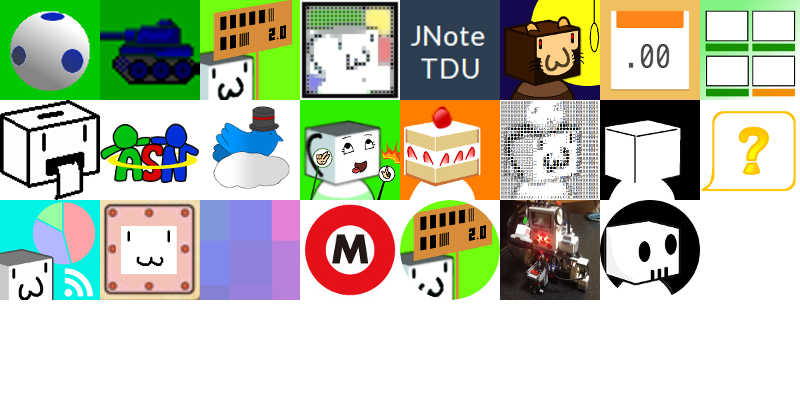
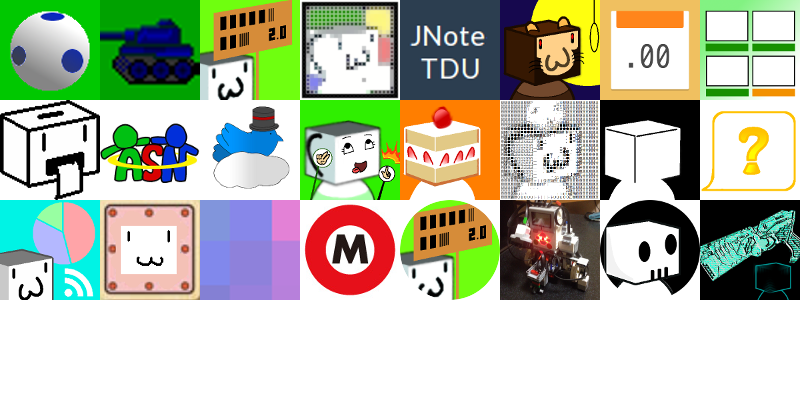
add portfolio dominator

Changed region(s): [[0.875, 0.48, 1.0, 0.75]]

diff --git a/application/views/portfoliopage.php b/application/views/portfoliopage.php
@@ -157,6 +157,12 @@ EOF
 EOF
         , array(TECHTAG_LANG_RUBY, TECHTAG_LANG_PHP, TECHTAG_LIB_MECAB, TECHTAG_API_TWITTERAPI, TECHTAG_API_GOOGLEMAPAPI, TECHTAG_OS_LINUX, TECHTAG_VC_GIT, TECHTAG_EDIT_VIM), '2014年12月', PATH_IMG_PRO_AREA, 'http://areastress.cps.im.dendai.ac.jp/'
     ),
+    new Productionobj(
+        'ドミネーター', '犯罪係数を測る', PRO_TYPE_SERIVICE, <<<EOF
+        Twitterユーザの色相と犯罪係数を計測できる.予想より人気で公開した一晩でレンタル鯖の転送量制限を越して閉鎖.
+EOF
+        , array(TECHTAG_LANG_PHP, TECHTAG_LANG_JS, TECHTAG_LIB_MECAB, TECHTAG_FW_FOUNDATION, TECHTAG_FW_CODEIGNITER, TECHTAG_MLANG_COFFEESCRIPT, TECHTAG_MLANG_STYLUS, TECHTAG_OS_LINUX, TECHTAG_API_TWITTERAPI, TECHTAG_VC_GIT, TECHTAG_EDIT_NETBEANS, TECHTAG_EDIT_VIM), '2015年01', PATH_IMG_PRO_DOMI, 'http://dominator.elzup.com/'
+    ),
 );
 // 種類分け
 $production_kinds = array();

diff --git a/application/config/constants.php b/application/config/constants.php
@@ -118,6 +118,7 @@ define('PATH_IMG_PRO_METRO', PATH_IMG . 'sc_metro.png');
 define('PATH_IMG_PRO_TRENDWEB', PATH_IMG . 'sc_trendweb.png');
 define('PATH_IMG_PRO_EV3', PATH_IMG . 'sc_ev3.png');
 define('PATH_IMG_PRO_AREA', PATH_IMG . 'sc_area.png');
+define('PATH_IMG_PRO_DOMI', PATH_IMG . 'sc_domi.png');
 
 define('PATH_IMG_RELOAD', PATH_IMG . 'im_reload.png');
 
@@ -146,7 +147,7 @@ define('TECHTAG_FW_SLIM', 'Slim');
 define('TECHTAG_FW_BOOTSTRAP', 'Bootstrap');
 define('TECHTAG_FW_PURE', 'Pure');
 define('TECHTAG_FW_MATERIALIZE', 'Materialize');
-define('TECHTAG_FW_Foundation', 'Foundation');
+define('TECHTAG_FW_FOUNDATION', 'Foundation');
 // lib
 define('TECHTAG_LIB_DXLIB', 'DxLib');
 define('TECHTAG_LIB_JAVASERVLET', 'Java servlet');
